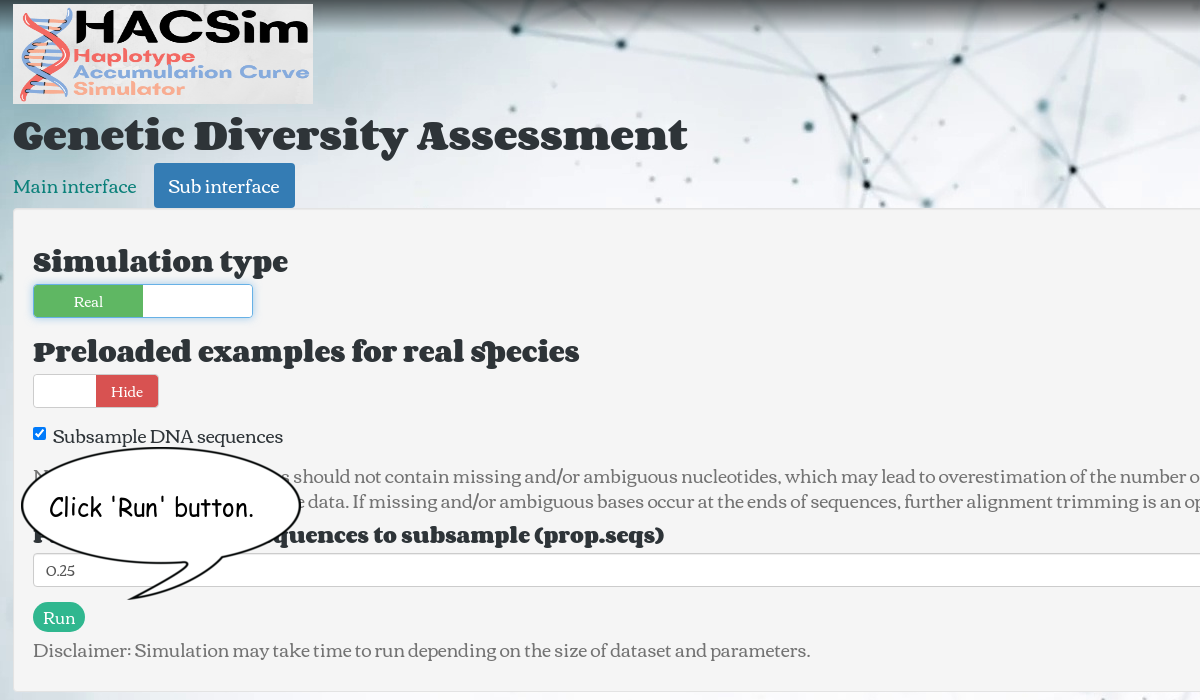
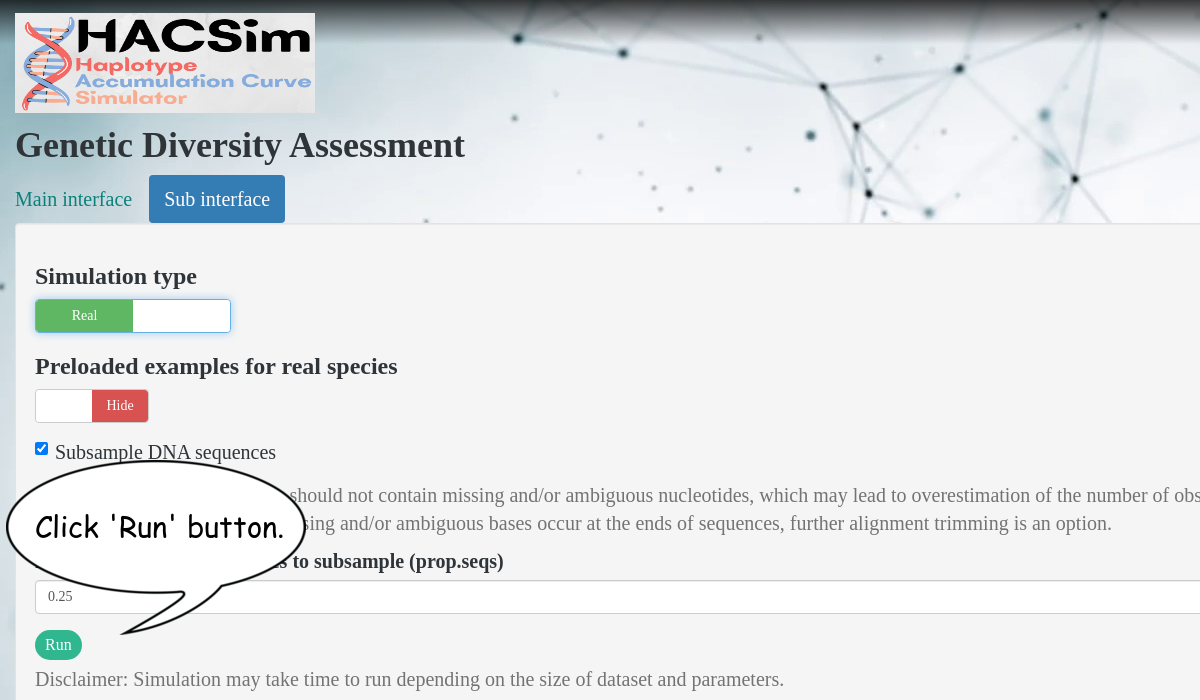
Latest update

diff --git a/www/tutorial.html b/www/tutorial.html
@@ -75,7 +75,7 @@
               </li>
               <li>
                 <p class="p1">Users have the option to input either the proportion of haplotype labels or DNA sequences to subsample, depending on whether hypothetical species or real species are being simulated. To do so, click the appropriate checkbox and enter the desired value in the input field.</p>
-                <p class="p1">Once all steps have been completed, click Run.</p>
+                <p class="p1">Once all steps have been completed, click 'Run'.</p>
                 <div class="row">
                 <div class="column" style="float: left;width: 50%;padding: 5px;">
                   <img src="/subsample.png" alt="subsample DNA sequences" class="responsive" /img>

diff --git a/www/style.css b/www/style.css
@@ -1,11 +1,9 @@
-/* Import font for use */
-@import url('https://fonts.googleapis.com/css2?family=Corben:wght@400;700&display=swap');
 
 :root {
   /* Fonts */
-  --text-font-family: "Corben";
+  --text-font-family: "Times New Roman";
   --text-font-base: serif;
-  --base-font-size: 18px;
+  --base-font-size: 20px;
   --base-weight: 400;
   --heavy-weight: 700;
 
